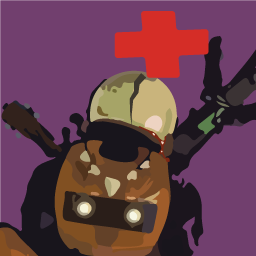
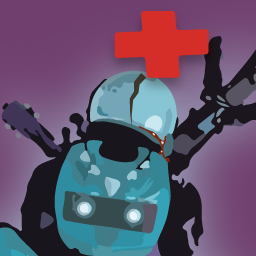
fixed typos and updated artwork

diff --git a/TeammateRevive/bin/Debug/netstandard2.0/TeammateRevive/README.md b/TeammateRevive/bin/Debug/netstandard2.0/TeammateRevive/README.md
@@ -1,3 +1,10 @@
 # TeammateRevive - DOES NOT WORK CURRENTLY! - WIP
 
-A simple Risk of Rain 2 mod that allows teammates to revive their fallen colleagues. But be careful, you can't fight and revive at the same time. 
+A simple Risk of Rain 2 mod that allows teammates to revive their fallen colleagues. But be careful, you can't fight and revive at the same time.
+
+* 1.0.1:
+    * Fixed typos
+    * updated artwork
+
+* 1.0.0:
+    * Initial release
